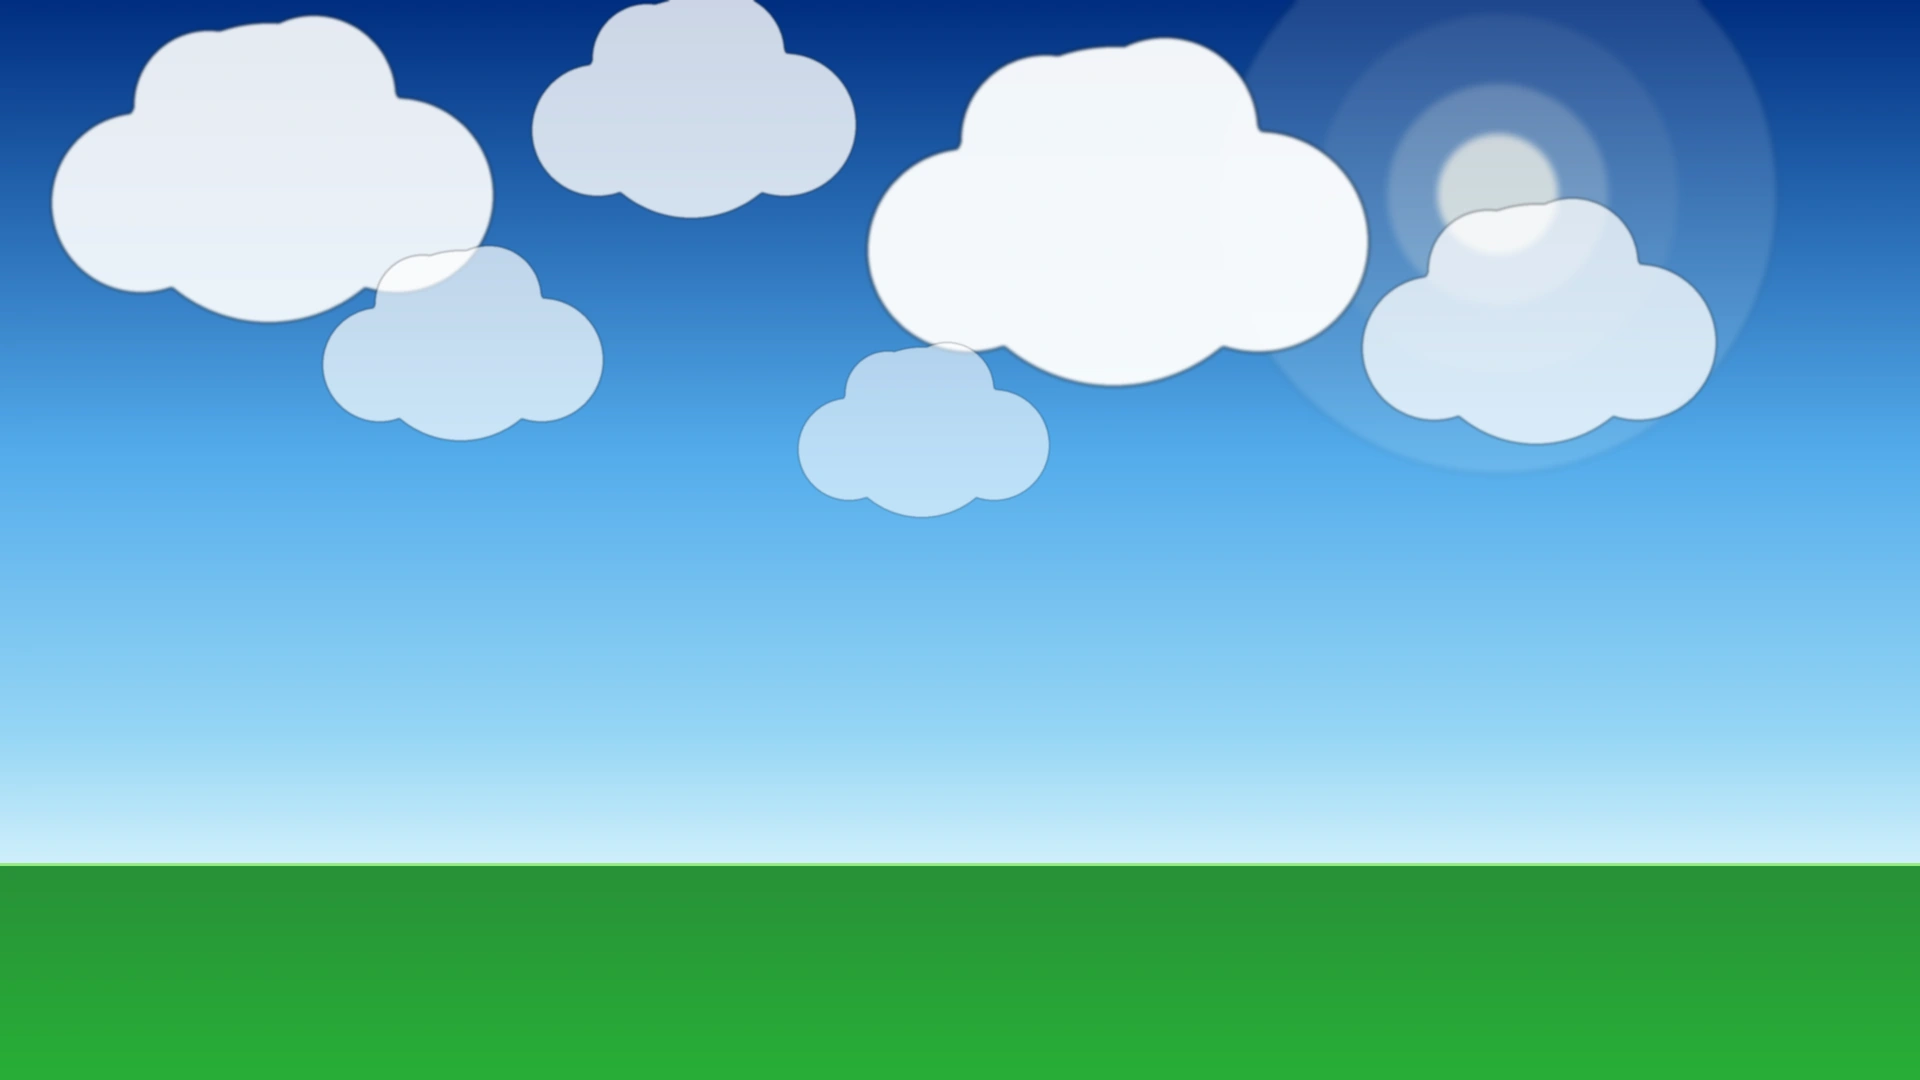
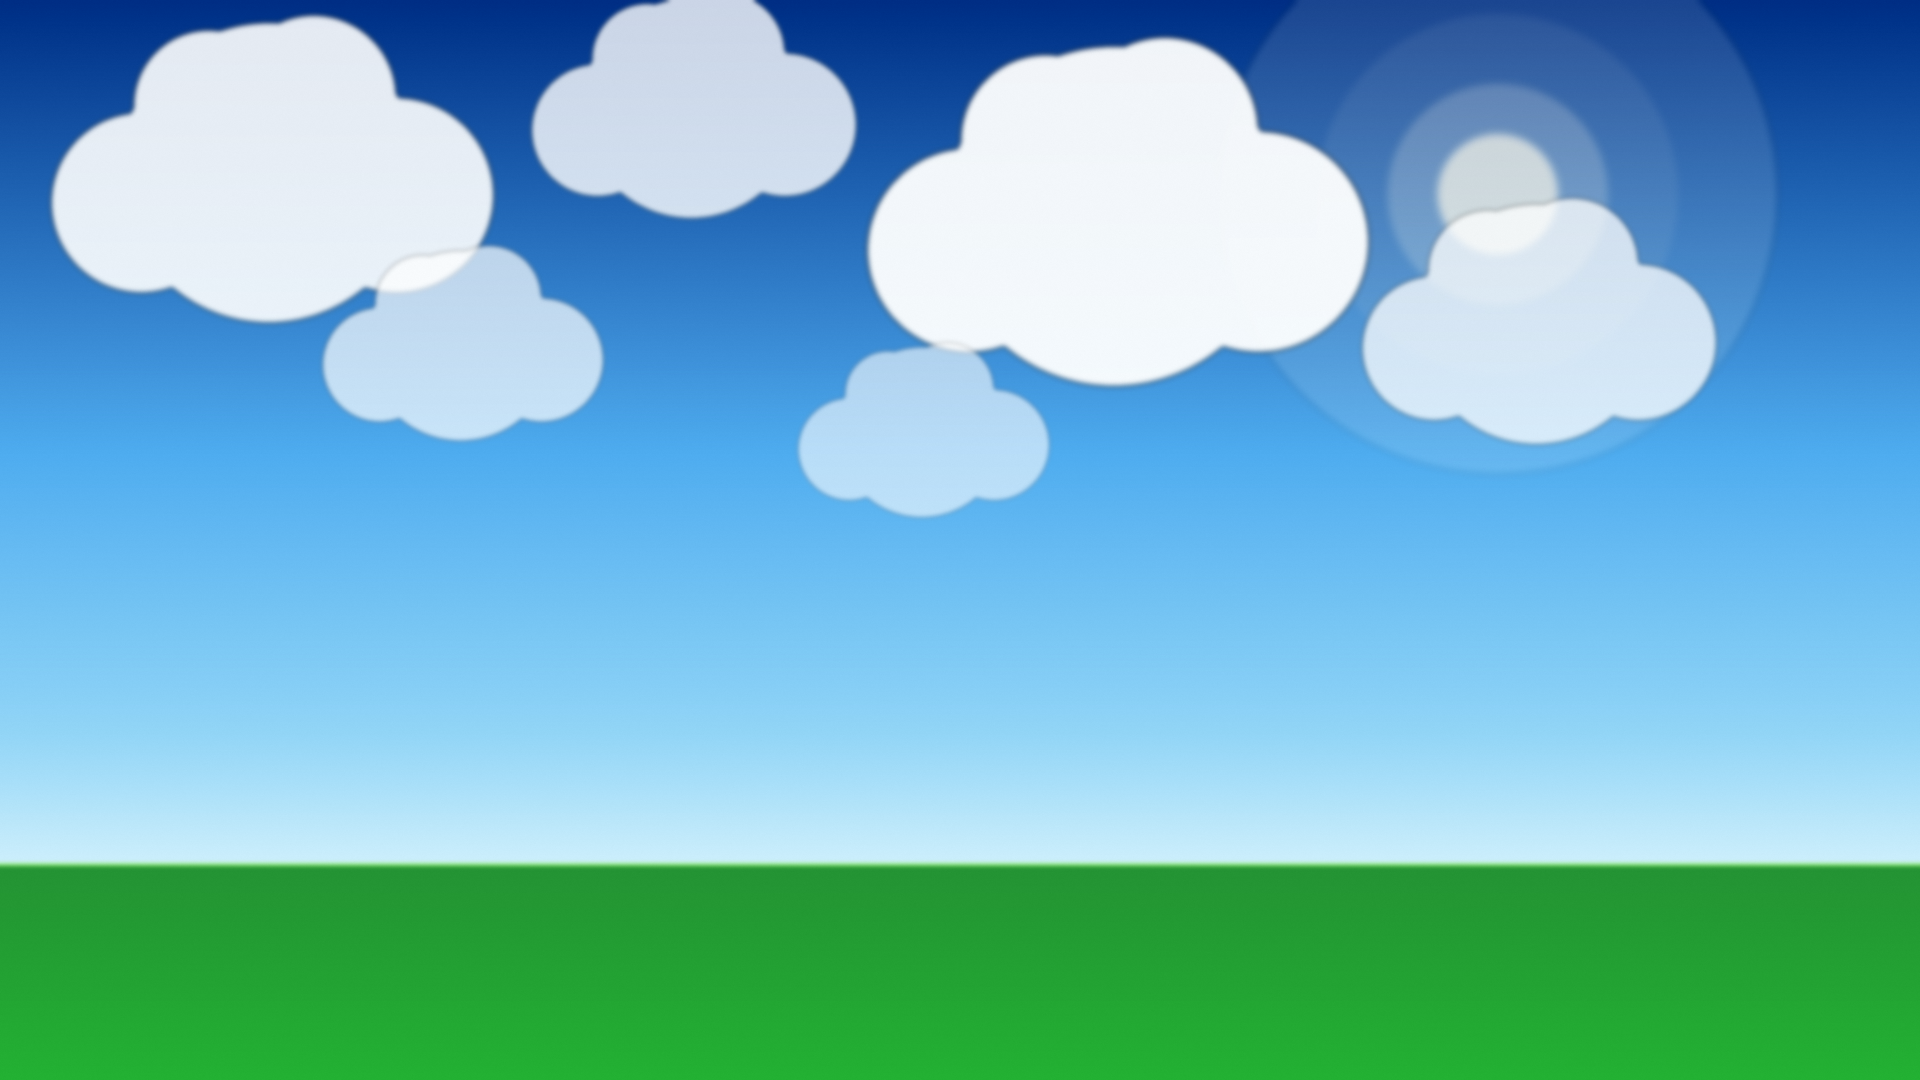
fix(skins): frutiger-aero 1.1.0 — 集成显卡上 GPU 占用 82% → 23%
面板磨砂不再实时计算：气泡在面板背后持续上浮会让 backdrop-filter 每帧回读并重算
整屏模糊，实测（Intel Iris Xe，1920x1200 最大化、窗口前台、空白会话、深色主题）
3D 引擎占用 82.33%。改为把「2px 柔化 + 冷色 1.06」预烘进 assets/aero-sky.webp
（补 ±0.5 级抖动，太阳区色阶平台占比 1.9%），四处 backdrop-filter 改为
var(--aero-frost, none)，占用降至 22.79%，整窗观感差异 2~3 级。

同时含两处上一轮收编笔记提出的修补：壁纸太阳光晕的同心环（平台像素 10,062 → 884）、
浅色侧栏工作区列表的对比度（局部背景标准差 21.7 → 11.7，最差行 6.35:1 → 9.48:1）。

diff --git a/skins/frutiger-aero/patches.css b/skins/frutiger-aero/patches.css
@@ -88,12 +88,18 @@ body[data-ds-dark-theme] [data-dsh-skin-layer="background"]::after,
                              （height: var(--dsh-windows-titlebar-height)）
    哈希前缀随 DSH 版本变化，故一律用 [class*=] 通配匹配。
 
-   ★磨砂统筹★ 割裂感来自"相邻区域模糊度不同"，所以把最大相邻差值压到最小：
-     顶栏 2px │ 侧栏 0（清玻璃）│ 主区 2px │ 右侧栏 3px │ 提示气泡 4px
-     最大差值 3px，三条接缝都看不出断差。
-   这四处磨砂叠在全屏动态气泡之上时，显卡 3D 占用仍低于 0.3%（Intel Iris Xe）。
-   窗口级巨型层 [data-dsh-part="dialog"] 刻意不加模糊：那里约 +22% 显卡占用。
-   兜底：系统开启"减少透明效果"时本段的磨砂自动失效。 */
+   ★1.1.0：实时磨砂改为"资源内预烘"★
+   1.0.0~1.1.0 的面板磨砂用的是 backdrop-filter。问题在于气泡一直在面板背后上浮：
+   背景每帧都在变，浏览器就只能每帧回读并重算整屏模糊。实测（Intel Iris Xe，
+   1920x1200 最大化、窗口前台、空白会话）3D 引擎占用 82.33%，其中约 59 个点
+   来自这一项 —— 把气泡冻结则只剩 6.50%，即开销几乎全部是"每帧重算"本身。
+   离线像素实测：blur(2px) 对观感的贡献只有 0.28 级（远低于可感知阈值），
+   真正被看见的是 saturate 的冷色偏移。因此 1.1.0 把"2px 柔化 + 冷色 1.06"
+   一次性烘进 assets/aero-sky.webp（并补抖动，太阳区色阶平台占比仍为 1.9%），
+   面板退回清玻璃 + 冷色底，与左侧栏材质统一。
+   结果：3D 引擎 82.33% → 22.79%（-72.3%），整窗观感差异 2~3 级以内。
+   想换回实时磨砂：把 skin.css 的 --aero-frost 设为 blur(1px) saturate(1.10)。
+   （历史）窗口级巨型层 [data-dsh-part="dialog"] 刻意不加模糊：那里约 +22%。 */
 @media (prefers-reduced-transparency: no-preference) {
   [class*="sidebarCol"] {
     /* 左侧工作区不使用 backdrop-filter：
@@ -103,18 +109,18 @@ body[data-ds-dark-theme] [data-dsh-skin-layer="background"]::after,
        材质差异靠 --dsw-specific-sidebar-fill 的填充浓度表达。 */
   }
   [class*="centerCol"] {
-    /* 主聊天区：面积最大，磨砂保持最轻，避免明亮天空被糊成一层薄白雾。 */
-    backdrop-filter: blur(2px) saturate(1.10);
-    -webkit-backdrop-filter: blur(2px) saturate(1.10);
+    /* 主聊天区：面积最大的那块。1.1.0 起不再实时模糊，观感由预烘资源承担。 */
+    backdrop-filter: var(--aero-frost, none);
+    -webkit-backdrop-filter: var(--aero-frost, none);
   }
   [class*="rightbarCol"] {
-    /* 右侧工作区：比主聊天区略实一档，形成层次。 */
-    backdrop-filter: blur(3px) saturate(1.14);
-    -webkit-backdrop-filter: blur(3px) saturate(1.14);
+    /* 右侧工作区：原为比主区略实一档的磨砂，现已并入预烘资源。 */
+    backdrop-filter: var(--aero-frost, none);
+    -webkit-backdrop-filter: var(--aero-frost, none);
   }
   [class*="_frame"]::before {
-    backdrop-filter: blur(2px) saturate(1.11);
-    -webkit-backdrop-filter: blur(2px) saturate(1.11);
+    backdrop-filter: var(--aero-frost, none);
+    -webkit-backdrop-filter: var(--aero-frost, none);
     /* ★整窗唯一的顶边高光★ 光从上方落在这一整片玻璃的顶边上。
        1px 亮线 + 约 12px 柔光渐隐（与面板用的是同一套衰减参数，观感统一）。 */
     box-shadow:
@@ -127,8 +133,8 @@ body[data-ds-dark-theme] [data-dsh-skin-layer="background"]::after,
       inset 0 4px 7px -4px #ffffff1f;
   }
   [role="tooltip"] {
-    backdrop-filter: blur(4px) saturate(1.12);
-    -webkit-backdrop-filter: blur(4px) saturate(1.12);
+    backdrop-filter: var(--aero-frost, none);
+    -webkit-backdrop-filter: var(--aero-frost, none);
   }
 }
 
@@ -224,4 +230,18 @@ body[data-ds-dark-theme] a:visited { color: #A58FDC; }
 
 body[data-ds-dark-theme] [role="tooltip"] {
   border-color: #5AC8F51f;
+}
+
+/* ===== 变体 a+b：侧栏上部局部垫底 + 文字白色柔光晕 =====
+   对应收编意见：浅色清玻璃侧栏把工作区列表压在云朵图像上、对比度偏低。
+   a 解决"底色是云"（局部背景 std 21.7 → 12.3）；
+   b 再把最差的那几行文字抬起来（p10 6.35 → 8.5）。
+   两条都只在侧栏上、只影响浅色、不换材质、不用 backdrop-filter、不碰两用 token。 */
+[class*="sidebarCol"] {
+  background-image: linear-gradient(180deg, rgba(247,252,255,.68) 0%, rgba(245,251,255,.52) 34%, rgba(242,249,255,0) 58%);
+  text-shadow: 0 0 1px rgba(255,255,255,.92), 0 1px 2px rgba(255,255,255,.74);
+}
+body[data-ds-dark-theme] [class*="sidebarCol"] {
+  background-image: none;
+  text-shadow: none;
 }

diff --git a/skins/frutiger-aero/skin.css b/skins/frutiger-aero/skin.css
@@ -20,6 +20,13 @@
      想冻结就把下面这个值改为 paused，然后刷新页面。 */
   --aero-bubble-motion: running;
 
+  /* 面板实时磨砂开关（1.1.0 默认关闭）：
+     1.1.0 起把"2px 柔化 + 冷色"预烘进 assets/aero-sky.webp，面板退回清玻璃，
+     因为气泡在面板背后持续上浮会让实时模糊每帧重算整屏 —— 实测 iGPU 上
+     3D 引擎 82.33% vs 22.79%（见 patches.css 顶部的完整实测）。
+     想换回实时磨砂：改成 blur(1px) saturate(1.10) 并刷新页面（代价见上）。 */
+  --aero-frost: none;
+
   /* 面板：冰蓝玻璃。透明度用【纯乘性】写法：
      没有背景图时接近全透，有背景图时按用户设定的背景不透明度线性加权
      （皮肤中心会把背景不透明度计入 --dsw-skin-scrim）。

diff --git a/skins/frutiger-aero/README.zh.md b/skins/frutiger-aero/README.zh.md
@@ -1,10 +1,23 @@
 # Frutiger Aero
 
+简体中文 | [English](README.md)
+
 给 DSH Web GUI 的 Frutiger Aero 皮肤：冰蓝色半透明玻璃面板，垫在一张原创的蓝天草地壁纸之下，背景里有缓慢上浮的玻璃气泡。
+
+## 本次更新（1.1.0）
+
+- **性能**：1.0.0 的面板磨砂在集成显卡上会把 GPU 的 3D 引擎打到 82.33%
+  （Intel Iris Xe，1920×1200 最大化、窗口前台）。1.1.0 把"2px 柔化 + 冷色"预烘进壁纸资源，
+  同一测试条件下降到 22.79%；整窗观感差异 2~3 级（0~255 色阶），气泡与配色保持原样。
+  对应的表现是发烫、风扇转速升高、掉帧与耗电加快。
+- **壁纸**：太阳周围的同心环纹消失。成因是"模糊 + 8bit 量化"留下的同值平台；
+  1.1.0 对渐变加抖动并以无损方式保存，平台像素由 10,062 降到 884。
+- **浅色侧栏**：工作区列表不再被背后的云朵图案干扰。文字背后的底色标准差由 21.7 降到 11.7，
+  最差行的对比度由 6.35:1 升到 9.48:1。
 
 ## 亮点
 
-- **原创程序化美术**——背景 `assets/aero-sky.webp` 完全由代码生成（天空渐变、阳光、白云、草地），不含任何第三方图片。MIT 协议发布。
+- **原创程序化美术**——背景 `assets/aero-sky.webp` 完全由代码生成（天空渐变、阳光、白云、草地），不含任何第三方图片。MIT 协议发布。1.1.0 起对渐变做了抖动（dithering）处理：8bit 量化原本会在太阳光晕处留下 4~6 条同值平台、表现为同心环，抖动后平台占比由 79.8% 降到 2.0%，资源改为无损保存。
 - **轻盈的气泡**——每 500px 平铺 6 枚，单层径向渐变，用 `transform` 在合成器线程上浮：零重绘、不提升图层、不动画背景位置。
 - **变量全覆盖**——全部 `--dsw-alias-*` 与 `--aion-*` 变量重映射到冰蓝冷色体系，浅色与深色两套完整。
 - **可读性有预算**——文字颜色按真实合成后的玻璃底色选取，正文与次要文字满足 WCAG AA。
@@ -31,25 +44,39 @@
 | `preview/light.jpg` / `preview/dark.jpg` | 市场画廊预览图 |
 | `LICENSE` | MIT |
 
-## 磨砂玻璃与性能
+## 玻璃与性能
 
-磨砂通过各区域的**真实 CSS 模块类名**施加（`[class*=]` 通配，哈希前缀随版本变化）：
+1.1.0 起面板不再实时磨砂。原因是气泡一直在面板背后上浮：背景每帧都在变，
+浏览器只能每帧回读并重算整屏模糊，实测这一项占了 3D 引擎占用的绝大部分。
 
-| 区域 | 选择器 | 半径 |
+测试条件：Intel Iris Xe、1920×1200 最大化、窗口前台、空白会话、深色主题，逐次采样取均值。
+
+| 配置 | GPU 3D | 观感差异 |
 | --- | --- | --- |
-| 左侧工作区 | `[class*="sidebarCol"]` | 无（清玻璃） |
-| 主聊天区 | `[class*="centerCol"]` | 2px |
-| 右侧工作区 | `[class*="rightbarCol"]` | 3px |
-| 顶部标题栏 | `[class*="_frame"]::before` | 2px |
+| 1.0.0（四处实时磨砂，blur 2/3/2/4px + saturate） | **82.33%** | — |
+| 模糊半径减半 | 73.30% | 0.70 级 |
+| 气泡更新率降到 36 次/秒 | 81.45% | 0 级 |
+| 气泡更新率降到 12 次/秒 | 34.59% | 可见顿感 |
+| 气泡冻结 | 6.50% | 气泡停住 |
+| 移除全部 `backdrop-filter`，不做色彩补偿 | 22.97% | 4.89 级 |
+| **1.1.0：预烘资源 + 清玻璃面板** | **22.79%** | **2~3 级** |
 
-割裂感来自"相邻区域的模糊度不同"，所以这里把最大相邻差值压到最小（上表最大 3px），三条接缝都看不出断差。
+把气泡冻结后占用从 82.33% 掉到 6.50%，说明这 59 个百分点几乎全部来自"每帧重算"本身。
+模糊半径、壁纸、半透明三者都被单独测过，均不是原因。
 
-左侧工作区不用磨砂：该区域包含侧栏的收起/展开按钮，而 `backdrop-filter` 会为后代创建包含块，把这枚绝对定位按钮的基准从窗口改成侧栏列——展开时它下移压住侧栏标题，收起时被 `overflow:hidden` 裁掉。因此左侧以"清玻璃"呈现，材质差异靠 `--dsw-specific-sidebar-fill` 的填充浓度表达。
+1.1.0 的做法：把"2px 柔化 + 冷色 1.06"烘进 `assets/aero-sky.webp`（并补 ±0.5 级抖动，
+太阳区色阶平台占比 1.9%），四处 `backdrop-filter` 改为 `var(--aero-frost, none)`。
+需要实时磨砂的用户可在 `skin.css` 把 `--aero-frost` 设为 `blur(1px) saturate(1.10)`。
 
-在 Intel Iris Xe 核显上，全屏动态气泡在这些磨砂背后飘过时，显卡 3D 引擎占用**低于 0.3%**。
+左侧工作区**始终**不使用 `backdrop-filter`：该区域包含侧栏的收起/展开按钮，而
+`backdrop-filter` 会为后代创建包含块，把这枚绝对定位按钮的基准从窗口改成侧栏列，
+展开时下移约 48px 压住侧栏标题、收起时被 `overflow:hidden` 裁掉。
 
-唯一昂贵的模式是**窗口级模糊**：对巨型层 `[data-dsh-part="dialog"]` 施加
-`backdrop-filter: blur(16px)` 约增加 **22%** GPU 占用。该声明被刻意移除。
+浅色侧栏：清玻璃会让工作区列表直接压在云朵图像上，因此侧栏上部叠了一层极淡的冷白渐变、
+文字加了一层白色柔光晕；两者都只在浅色生效、都不使用 `backdrop-filter`。
+实测文字背后的底色标准差 21.7 → 11.7，最差行对比度 6.35:1 → 9.48:1。
+
+窗口级巨型层 `[data-dsh-part="dialog"]` 不加模糊：那里的 `blur(16px)` 约增加 22% 占用。
 
 ### 玻璃边缘
 

diff --git a/skins/frutiger-aero/README.md b/skins/frutiger-aero/README.md
@@ -1,6 +1,25 @@
 # Frutiger Aero
 
+[简体中文](README.zh.md) | English
+
+> 中文说明见 **[README.zh.md](README.zh.md)**（含本次性能修复的完整实测数据）。
+
 A Frutiger Aero skin for the DSH Web GUI: ice-blue translucent glass panels over an original sky-and-grass wallpaper, with slowly rising glossy bubbles.
+
+## What's new in 1.1.0
+
+- **Performance.** The 1.0.0 panel frost pinned the GPU's 3D engine at 82.33% on integrated
+  graphics (Intel Iris Xe, 1920×1200 maximised, window focused). 1.1.0 bakes the "2px
+  softening + cool tint" into the wallpaper asset instead and measures 22.79% under the same
+  conditions. The whole-window difference is 2–3 levels out of 255; bubbles and colours are
+  unchanged. On affected machines the symptoms were heat, fan noise, dropped frames and
+  faster battery drain.
+- **Wallpaper.** The concentric rings around the sun are gone. They came from the flat
+  plateaus that "blur + 8-bit quantisation" leaves behind; the gradients are now dithered and
+  stored losslessly, taking the plateau count from 10,062 pixels to 884.
+- **Light-theme sidebar.** The workspace list no longer competes with the cloud imagery
+  behind it: the backdrop's standard deviation drops from 21.7 to 11.7 and the worst row's
+  contrast rises from 6.35:1 to 9.48:1.
 
 ## Highlights
 
@@ -31,36 +50,47 @@ Bubbles: 6 per 500px tile, fixed pixel radii (44–92px), single-layer gradients
 | `preview/light.jpg` / `preview/dark.jpg` | Gallery previews |
 | `LICENSE` | MIT |
 
-## Frosted glass and performance
+## Glass and performance
 
-Frost is applied through the structural regions' real CSS-Module class names
-(matched with `[class*=]`, since the hash prefix changes between builds):
+Since 1.1.0 the panels carry no live frost. The reason is in the table below: the bubbles
+never stop rising behind the panels, so the backdrop changes every frame and the browser has
+to re-read and re-blur the whole surface every frame.
 
-| Region | Selector | Radius |
+Conditions: Intel Iris Xe, 1920×1200 maximised, window focused, blank session, dark theme,
+per-sample averaging.
+
+| Configuration | GPU 3D | Visual difference |
 | --- | --- | --- |
-| Left workspace column | `[class*="sidebarCol"]` | none (clear glass) |
-| Centre chat column | `[class*="centerCol"]` | 2px |
-| Right workspace column | `[class*="rightbarCol"]` | 3px |
-| Top titlebar strip | `[class*="_frame"]::before` | 2px |
+| 1.0.0 (four live frost layers, blur 2/3/2/4px + saturate) | **82.33%** | — |
+| Blur radius halved | 73.30% | 0.70 levels |
+| Bubble update rate cut to 36 Hz | 81.45% | 0 levels |
+| Bubble update rate cut to 12 Hz | 34.59% | visible stepping |
+| Bubbles frozen | 6.50% | bubbles stop |
+| All `backdrop-filter` removed, no colour compensation | 22.97% | 4.89 levels |
+| **1.1.0: pre-baked asset + clear-glass panels** | **22.79%** | **2–3 levels** |
 
-Visible seams come from neighbouring regions carrying *different* blur radii, so
-the spread is kept as small as possible (3px at most in the table above) and none
-of the three seams reads as a step.
+Freezing the bubbles alone takes the figure from 82.33% to 6.50%, so those 59 points are
+almost entirely the per-frame recomputation itself. Blur radius, wallpaper and translucency
+were each tested on their own, and none of them is the cause.
 
-The left workspace column carries no frost: it contains the sidebar's
-collapse/expand button, and `backdrop-filter` makes an element a containing block
-for its descendants, which would re-base that absolutely positioned button from
-the window onto the sidebar column — dropping it onto the sidebar heading when
-expanded, and clipping it away behind `overflow:hidden` when collapsed. The
-column therefore uses clear glass, and the material difference is expressed
-through the `--dsw-specific-sidebar-fill` alpha instead.
+What 1.1.0 does instead: "2px softening + saturation 1.06" is baked into
+`assets/aero-sky.webp` (±0.5 levels of dither on top; the sun-glow plateau ratio is 1.9%),
+and the four `backdrop-filter` declarations become `var(--aero-frost, none)`. To bring live
+frost back, set `--aero-frost` in `skin.css` to `blur(1px) saturate(1.10)`.
 
-On an Intel Iris Xe iGPU, with the animated bubble field running behind all of
-these surfaces, GPU 3D engine utilisation stays **below 0.3%**.
+The left workspace column has never used `backdrop-filter`: it contains the sidebar's
+collapse/expand button, and `backdrop-filter` would turn the column into a containing block
+for its descendants, re-basing that absolutely positioned button from the window onto the
+column — about 48px lower when expanded, and clipped away by `overflow:hidden` when
+collapsed.
 
-The one expensive pattern is a window-level blur: `backdrop-filter: blur(16px)`
-on the huge `[data-dsh-part="dialog"]` layer costs roughly **+22%** GPU. That
-declaration is deliberately absent.
+Light-theme sidebar: clear glass puts the workspace list straight onto the cloud imagery, so
+the upper sidebar carries a very light cool-white gradient and its text a faint white halo.
+Both are light-theme only, and neither uses `backdrop-filter`. The backdrop behind the text
+goes from 21.7 to 11.7 standard deviation, and the worst row from 6.35:1 to 9.48:1.
+
+No blur on the window-level `[data-dsh-part="dialog"]` layer either: `blur(16px)` there costs
+about 22% on its own.
 
 ### Glass edges
 
